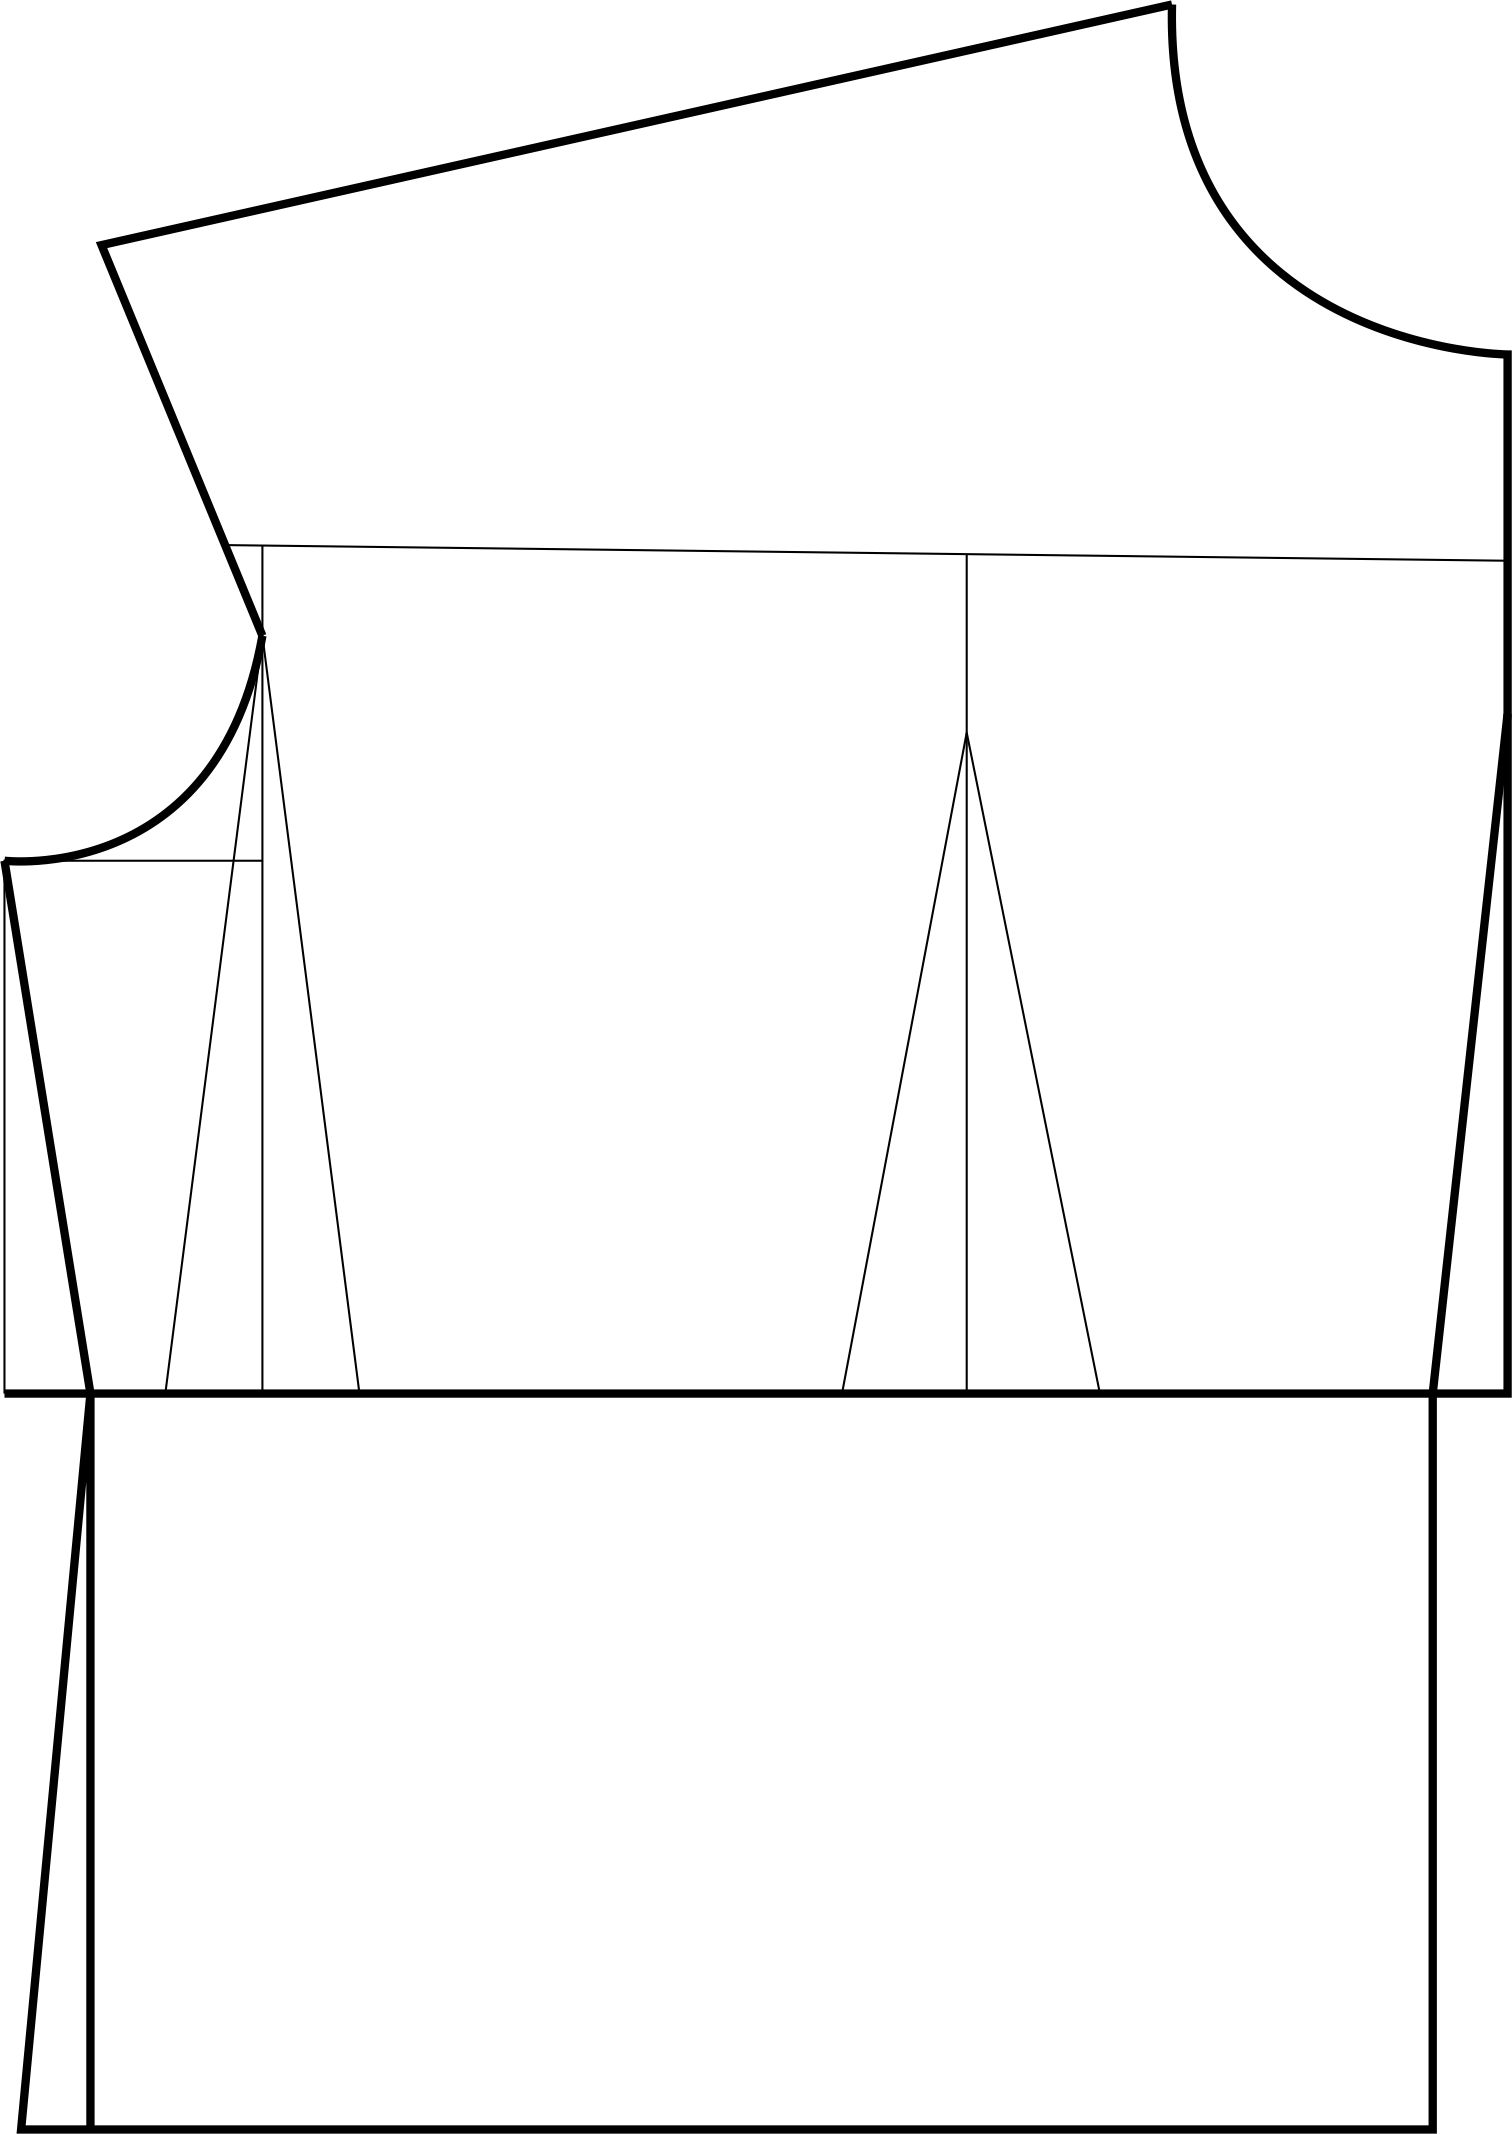
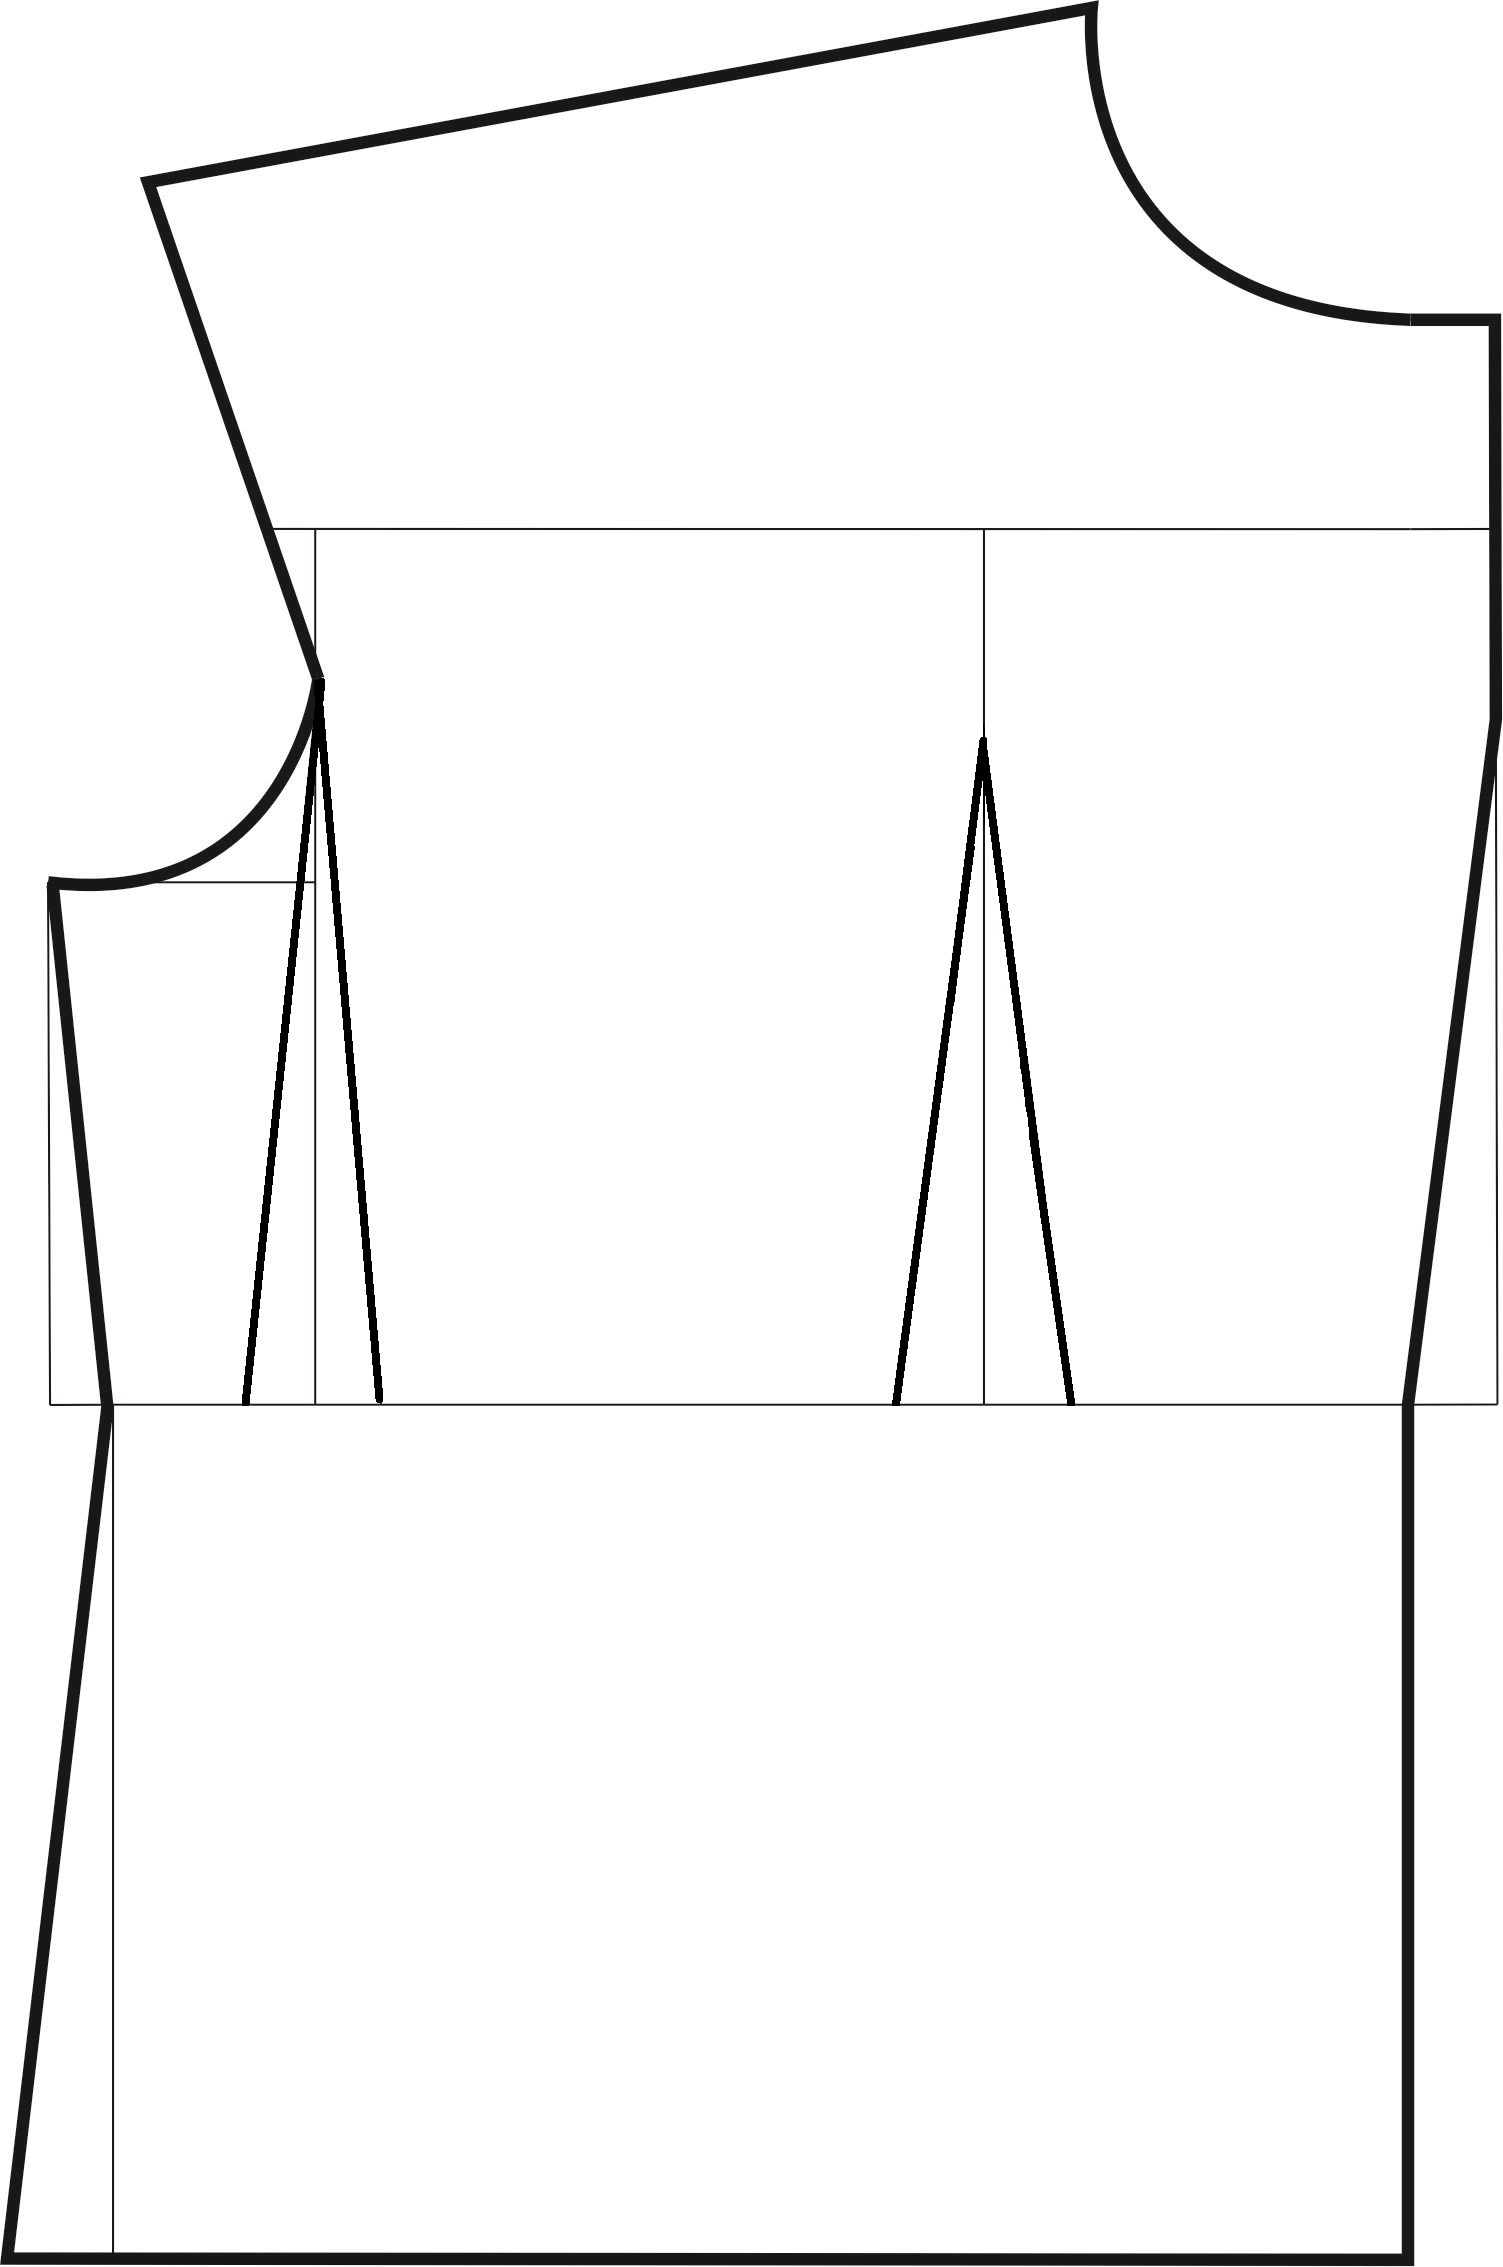
добавлена графическая часть соединения на две стороны сразу

Changed region(s): [[0.0, 0.0, 1.0, 1.0], [0.5815, 0.3093, 0.7039, 0.6186], [0.2448, 0.5567, 0.2754, 0.6186]]

diff --git a/index.css b/index.css
@@ -755,7 +755,7 @@
 
 #a8t8{
 	bottom: 23vw;
-	left: 30vw;
+	left: 30.3vw;
 	transform: rotate(270deg);
 }	
 #a9t9{
@@ -772,7 +772,7 @@
 
 #mvz2{
 	bottom: 38vw;
-    left: 27.8vw;
+    left: 27.5vw;
 	transform: rotate(270deg);
 }	
 
@@ -808,8 +808,8 @@
 }	
 
 #vbz{
-	bottom: 11vw;
-	left: -0.8vw;
+	bottom: 12vw;
+    left: -0.5vw;
 	transform: rotate(270deg);
 }	
 
@@ -829,7 +829,7 @@
 
 #dv{
 	bottom: 44.6vw;
-    left: 20.5vw;
+    left: 21vw;
 	transform: rotate(270deg);
 }	
 
@@ -847,12 +847,123 @@
 	transform: rotate(270deg);
 }	
 
+						/* соединение */
+
+#per {
+	position: relative;
+	width: 36%;
+	display: inline-block;
+	
+
+}
+#polv {
+		margin:50px 0 50px 110px;
+}
+#zadnv{
+		margin:50px 0 51px 240px;
+
+}
+#zadn {
+	position: relative;
+	display: inline-block;
+	width: 38%;
+	
+
+}
+
+  						/* переднее соединение */
+
+#kd1{
+	font-size: 1vw;
+    bottom: 23.8vw;
+    left: 40.5vw;
 
 
+}
+#kn1{
+	font-size: 1.4vw;
+    bottom: 40.2vw;
+    left: 24.6vw;
+	transform: rotate(270deg);
 
+}
+#nn2{
+	font-size: 1.4vw;
+    bottom: 40vw;
+    left: 34.7vw;
+	transform: rotate(270deg);
 
+}
+#kv1{
+    bottom: 23.5vw;
+    left: 25.2vw;
+}
+#kv2{
+    bottom: 23.5vw;
+    left: 35.7vw;
+}
+#m5d2p{
+	font-size: 1.2vw;
+    bottom: 2.5vw;
+    left: 40.5vw;
+}
+#vbn{
+    bottom: 14vw;
+    left: 6vw;
+	transform: rotate(270deg);
+}
 
+								/* заднее */
 
+#n1{
+	font-size: 1.4vw;
+	bottom: 44.2vw;
+    left: 25.2vw;
+    transform: rotate(270deg);
+}
+#n2{
+    bottom: 43.2vw;
+    left: 39.6vw;
+    transform: rotate(270deg);
+}
+#n3{
+	bottom: 43.2vw;
+    left: 52vw;
+    transform: rotate(270deg);
+}
+#rast{
+	bottom: 47vw;
+    left: 46.5vw;
+}
+#k1{
+    font-size: 1vw;
+    bottom: 23.8vw;
+    left: 18vw;
+}
+#k2{
+    bottom: 23.5vw;
+    left: 24.2vw;
+}
+#k3{
+
+    bottom: 23.5vw;
+    left: 40.5vw;
+}
+#k4{
+	font-size: 1vw;
+	bottom: 23.8vw;
+    left: 52.6vw;
+}
+#m5d2z{
+	font-size: 1.2vw;
+    bottom: 2.5vw;
+    left: 18.1vw;
+}
+#vbn2{
+    bottom: 14vw;
+    left: 52vw;
+    transform: rotate(270deg);
+}
 
 
 

diff --git a/index.html b/index.html
@@ -216,12 +216,48 @@
 				</div>
 				</div>
 					
-			
+			<div class="black"></div>
+
+
+		<div id="polvytachki">
+			<div id="per">
+				<img id="polv" src="images/vytachkipolochka.jpg" style="width: 100%; height: auto">
+
+<div id="kd1" class="pol"></div> <!-- отступ сбоку -->
+ <div id="kn1" class="pol"></div> <!-- к отступ сверху -->
+ <div id="nn2" class="pol"></div> <!-- н отступ сверху -->
+ <div id="kv1" class="pol"></div> <!-- выточка 1 -->
+ <div id="kv2" class="pol"></div> <!-- выточка 2 -->
+<div id="m5d2p" class="pol"></div><!--  m5/2 -->
+<div id="vbn" class="pol"></div> <!-- высота бедра-->
 
 
 
-		<div id="container">
+			</div>
 
+
+
+			<div id="zadn">
+			<img id="zadnv" src="images/vytachkispinka.jpg" style="width: 100%; height: auto">
+
+<div id="n1" class="pol"></div>
+ <div id="n2" class="pol"></div>
+ <div id="n3" class="pol"></div>
+ <div id="rast" class="pol"></div> 
+ <div id="k1" class="pol"></div>
+ <div id="k2" class="pol"></div> 
+<div id="k3" class="pol"></div>
+<div id="k4" class="pol"></div>
+<div id="m5d2z" class="pol"></div>
+<div id="vbn2" class="pol"></div>
+			</div>
+			<div>
+				
+
+
+			</div>
+
+		</div>
 				
 
 			</div>
